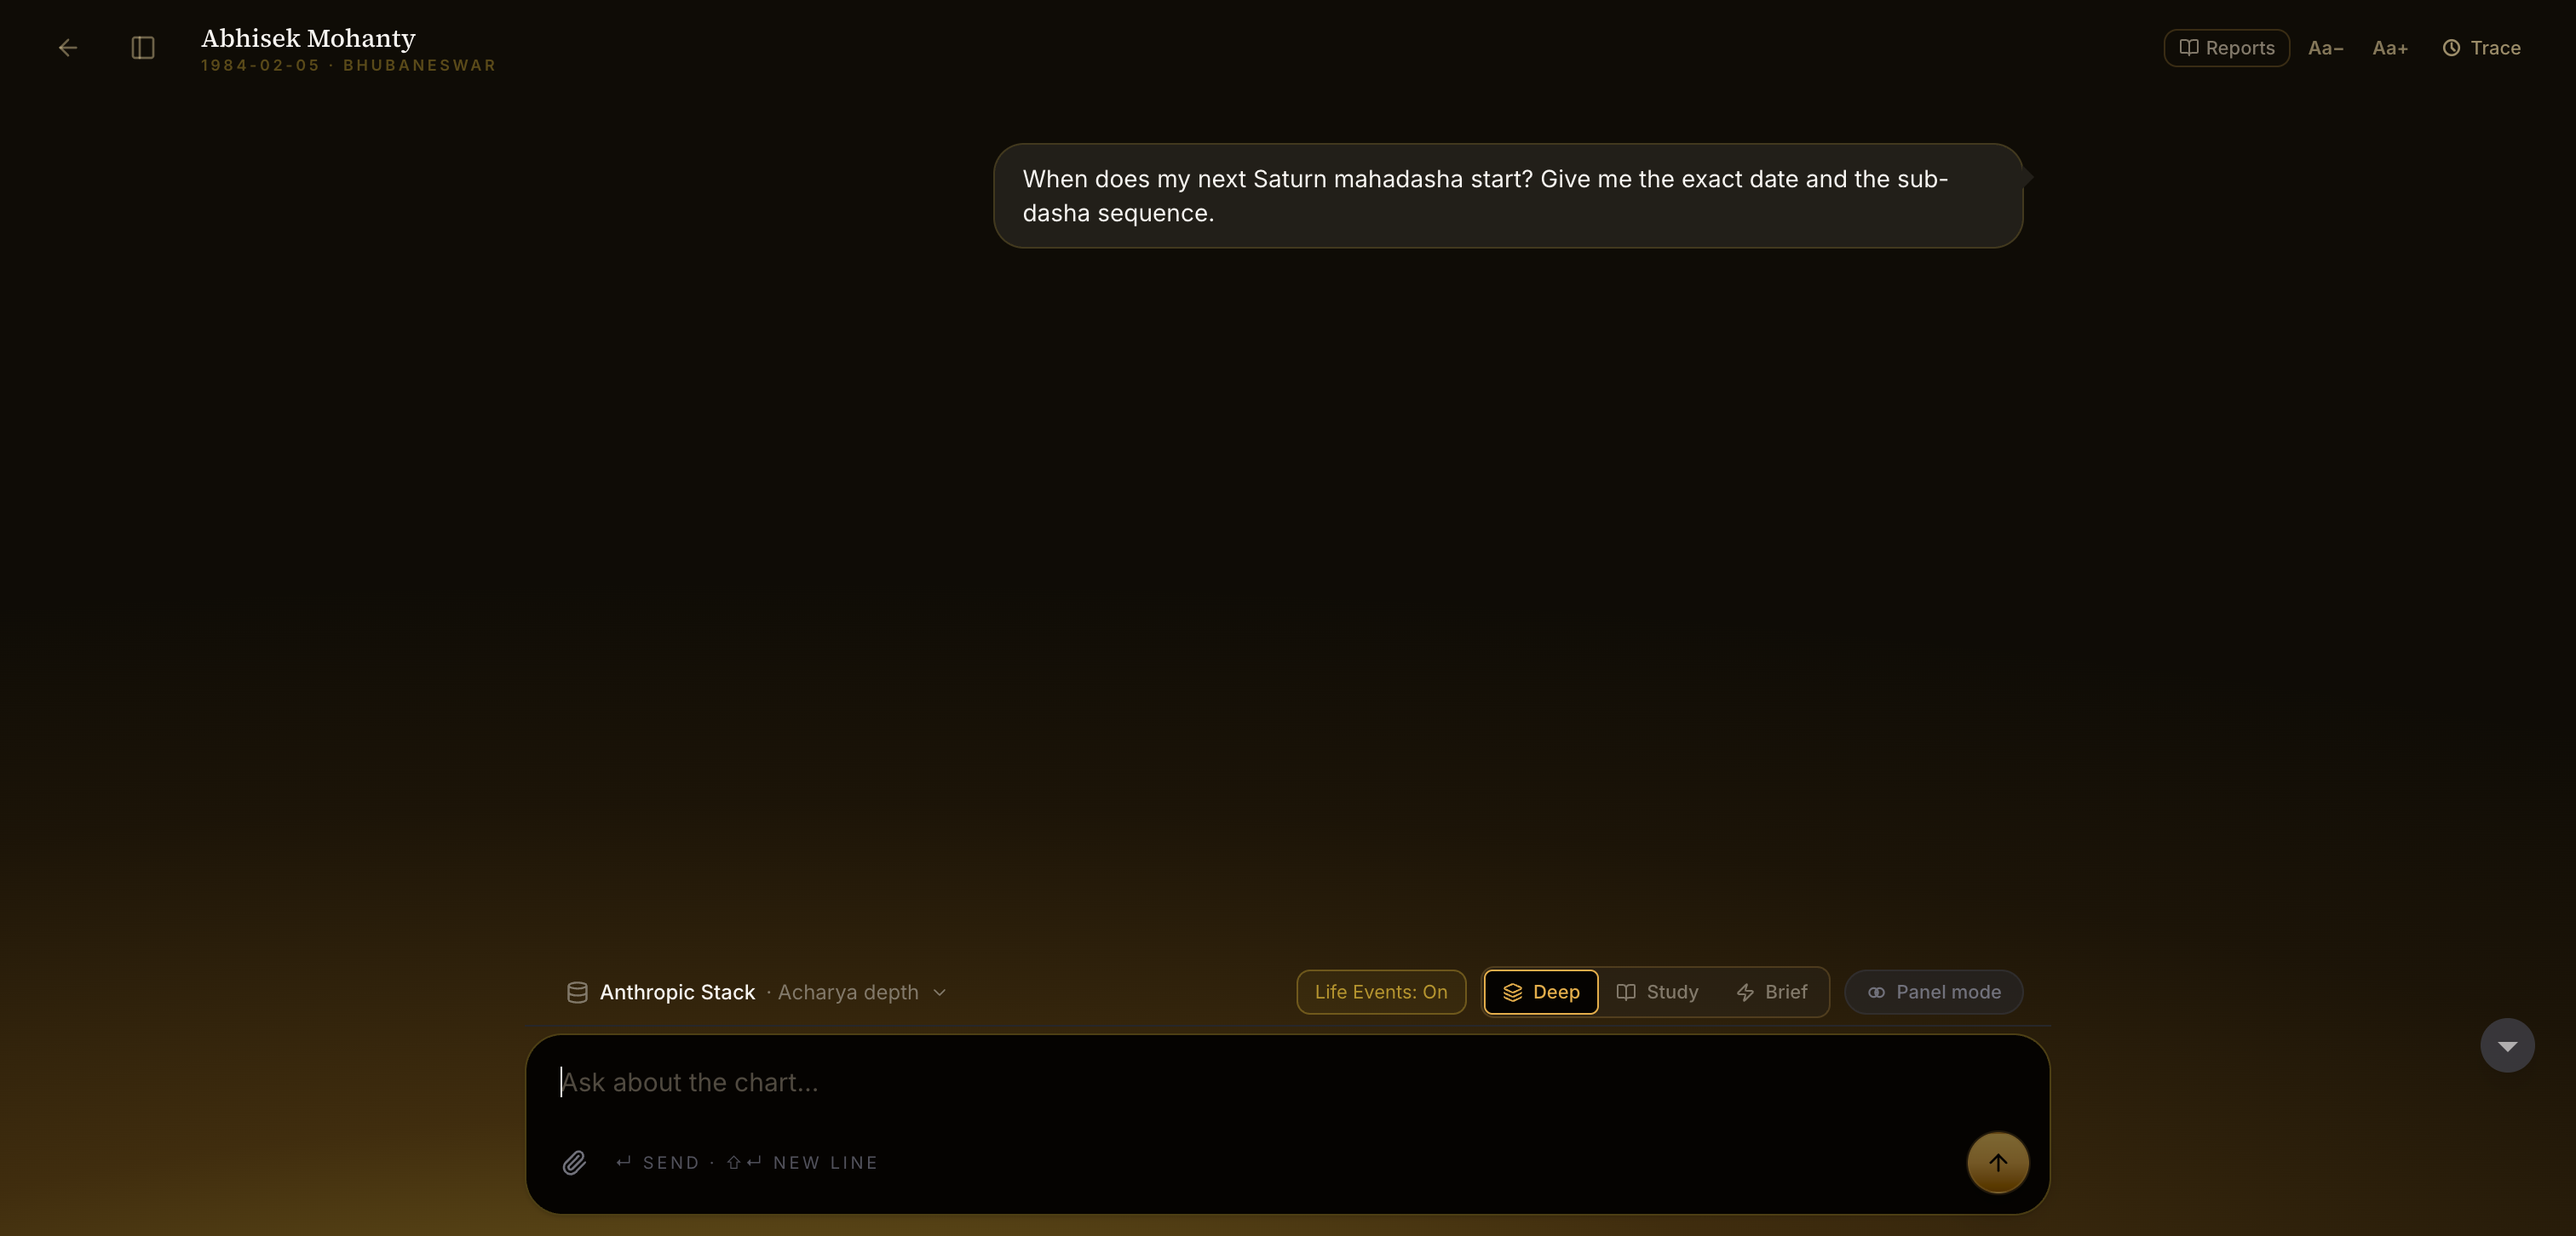
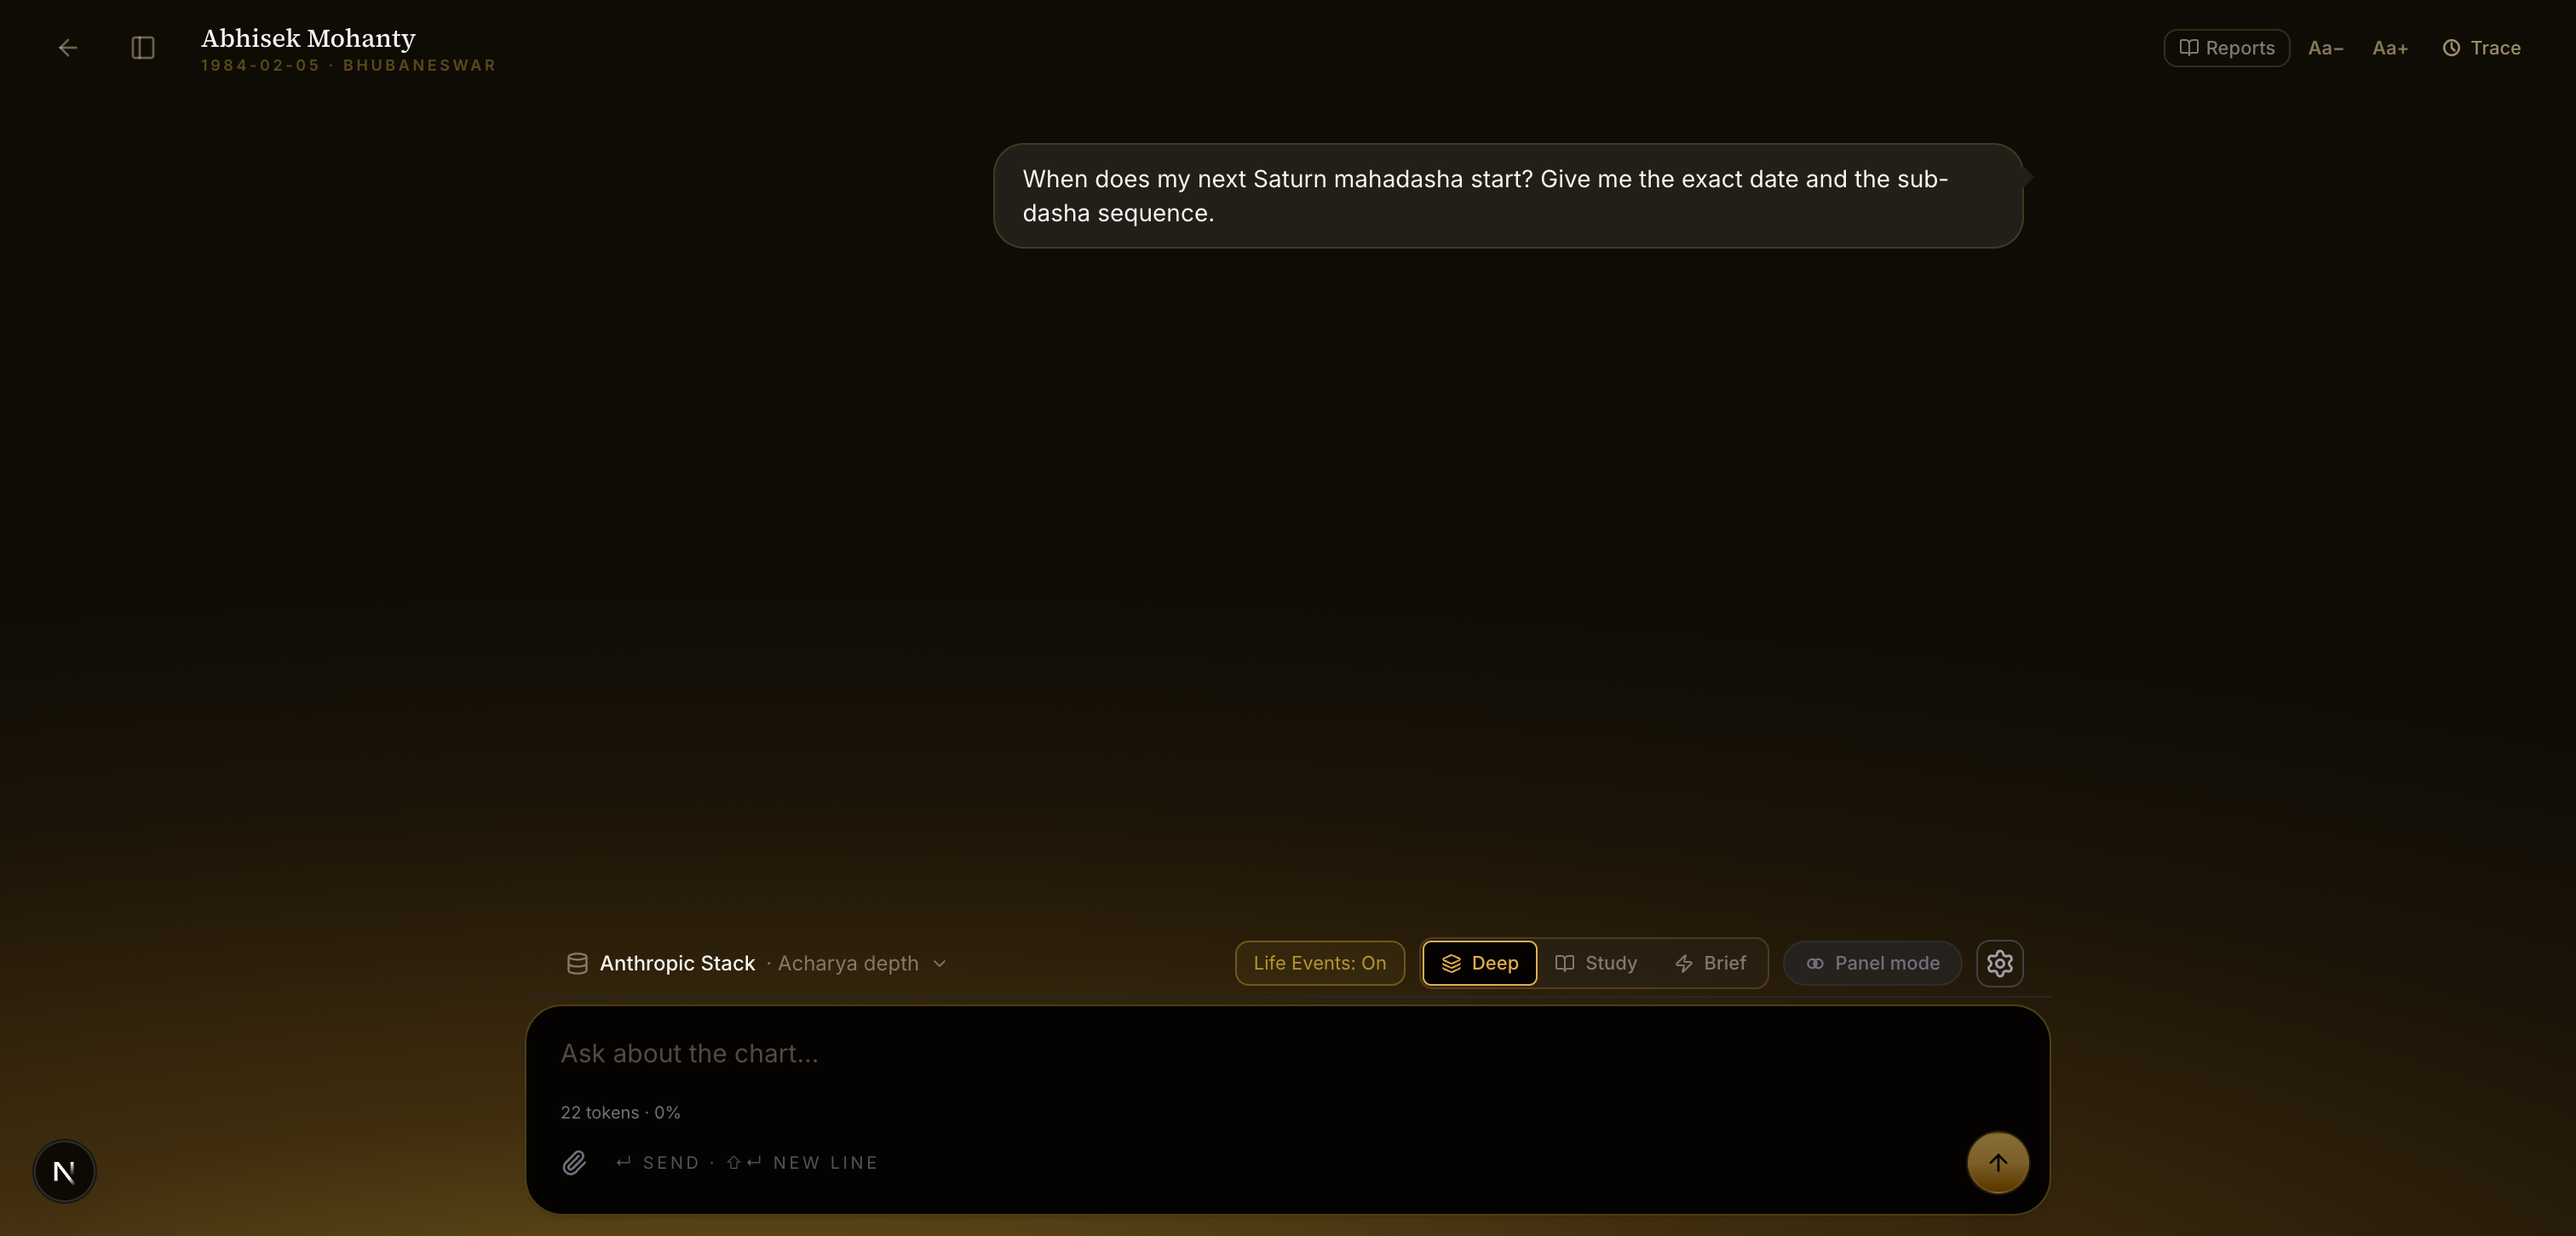
halt(conductor): R11F-A-S5 halted — Anthropic tool schema 400 (input_schema.type missing)
Anthropic API rejects the agentic loop request with HTTP 400:
tools.0.custom.input_schema.type: Field required

Root cause: jsonSchema() Vercel AI SDK wrapper does not preserve the top-level
"type":"object" field when @ai-sdk/anthropic serializes it into the custom tool
wire format. input_schema arrives at Anthropic without the required "type" key.

Fix path: replace jsonSchema() with z.object({}) or explicitly inline type:'object'
in the schema object passed to jsonSchema(). Next session: R11F-A-S6.

Planner 422 fix (3c0ec662) confirmed working — 400 is downstream at Anthropic call layer.

Changed region(s): [[0.1865, 0.7438, 0.8082, 0.8988], [0.0, 0.9298, 0.0622, 0.9917], [0.9636, 0.8058, 0.9947, 0.8678]]

diff --git a/00_ARCHITECTURE/CONDUCTOR/r11f/HALT_R11F-A-S5.md b/00_ARCHITECTURE/CONDUCTOR/r11f/HALT_R11F-A-S5.md
@@ -1,0 +1,152 @@
+---
+session: R11F-A-S5
+status: HALTED
+halt_reason: anthropic_tool_schema_400
+committed_at: 2026-05-24
+worktree: /Users/Dev/Vibe-Coding/Apps/MadhavR11FBound
+branch: chat-v2/r11f-agentic-loop
+---
+
+# HALT — R11F-A-S5: Anthropic Tool Schema 400 Error
+
+## Summary
+
+Smoke test FAILED. The Anthropic agentic loop (MARSYS_FLAG_R11E_ANTHROPIC_LOOP=true) was
+triggered successfully — flag resolved, tools were built, and the request was dispatched to
+the Anthropic API. However, the API returned HTTP 400 before producing any tokens.
+
+No assistant response text appeared. Tool-flow timeline is empty (loop never entered).
+
+## Failure Classification
+
+**FAIL** — tool-flow timeline empty, no dasha date in response, API returned 400.
+
+## Root Cause
+
+Anthropic API rejected the request with:
+
+```
+tools.0.custom.input_schema.type: Field required
+```
+
+Full error body from `/tmp/marsys-r11f-dev.log`:
+
+```json
+{
+  "type": "error",
+  "error": {
+    "type": "invalid_request_error",
+    "message": "tools.0.custom.input_schema.type: Field required"
+  },
+  "request_id": "req_011CbLBrL832ANdRNiQUTAYp"
+}
+```
+
+HTTP status: 400. `x-should-retry: false`.
+
+## Diagnosis
+
+The Anthropic adapter (`src/lib/providers/anthropic/adapter.ts`, line 107) uses the
+Vercel AI SDK `jsonSchema()` helper to wrap tool input schemas:
+
+```ts
+parameters: jsonSchema(tool.inputSchema ?? { type: 'object', properties: {} }),
+```
+
+`tool_catalogue.ts` supplies `inputSchema: { type: 'object', properties: {} }` for all
+retrieval tools. However, the `@ai-sdk/anthropic` package serializes `jsonSchema()`-wrapped
+schemas into Anthropic's `custom` tool format, and the resulting wire payload is missing
+the `type` field inside `input_schema`. Anthropic requires:
+
+```json
+{
+  "type": "custom",
+  "name": "query_dasha_periods",
+  "description": "...",
+  "input_schema": {
+    "type": "object",
+    "properties": {}
+  }
+}
+```
+
+But is receiving `input_schema: { "properties": {} }` — the `"type": "object"` key is
+absent on the wire.
+
+The likely cause is that the version of `@ai-sdk/anthropic` in this worktree's
+`node_modules` does not forward the `type` field from a bare `jsonSchema()` wrapper when
+`properties` is empty. This may be a known quirk of the SDK version in use or a schema
+normalization step that strips the top-level `type` when the schema has no required fields.
+
+## Model Used
+
+`claude-opus-4-7` (Anthropic Stack persona).
+
+## Loop Telemetry
+
+```json
+{
+  "marsys_event_type": "tool_loop_iteration",
+  "iteration": 1,
+  "providerId": "anthropic",
+  "inputTokens": 0,
+  "outputTokens": 0,
+  "cacheReadTokens": 0,
+  "cacheCreationTokens": 0,
+  "reasoningTokens": 0,
+  "toolCallCount": 0,
+  "toolErrorCount": 0,
+  "terminationSignal": null,
+  "completedAt": "2026-05-23T21:11:09.868Z"
+}
+```
+
+Iteration 1 completed with 0 tokens — the 400 was returned before any streaming started.
+
+## Screenshot Evidence
+
+- `smoke_00_initial.png` — consume page loaded, Anthropic Stack selected, query typed
+- `smoke_01_response.png` — response area empty after 400 error; user bubble visible but no assistant text
+- `smoke_02_tool_flow.png` — tool-flow timeline empty; loop was never entered
+
+All screenshots at:
+`00_ARCHITECTURE/chat_v2_briefs/round11f/visual_evidence/anthropic/`
+
+## Fix Required (next session)
+
+In `src/lib/providers/anthropic/adapter.ts`, replace the `jsonSchema()` wrapper with a
+direct `z.object({})` Zod schema for tools that have no declared input parameters, OR
+ensure the `inputSchema` object always has `type: 'object'` preserved on the wire by
+using the Anthropic SDK's native tool shape directly instead of going through the Vercel
+AI SDK `jsonSchema()` abstraction.
+
+Candidate fix (adapter.ts line 105-108):
+
+```ts
+toolsMap[tool.name] = {
+  description: tool.description,
+  parameters: jsonSchema({
+    type: 'object' as const,
+    properties: tool.inputSchema?.properties ?? {},
+    ...(tool.inputSchema?.required ? { required: tool.inputSchema.required } : {}),
+  }),
+};
+```
+
+Alternatively, if `jsonSchema()` is stripping the top-level `type`, use Zod directly:
+
+```ts
+import { z } from 'zod';
+// ...
+parameters: z.object({}),  // for parameterless tools
+```
+
+This fix must be validated with a fresh smoke run (R11F-A-S6) after code change.
+
+## What Was Cleared Before This Session
+
+Commit `a36a2865` cleared the previous HALT (R11F-A-S5 planner 422 / null synthesis_guidance).
+That fix (commit `3c0ec662`) is confirmed working — planner returned HTTP 200 and a valid
+`tools_authorized` list. The 400 occurs at the Anthropic API call layer, downstream of
+the planner fix.
+---
